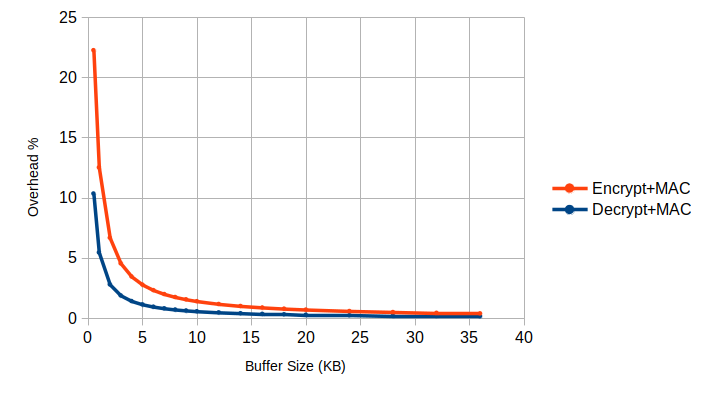
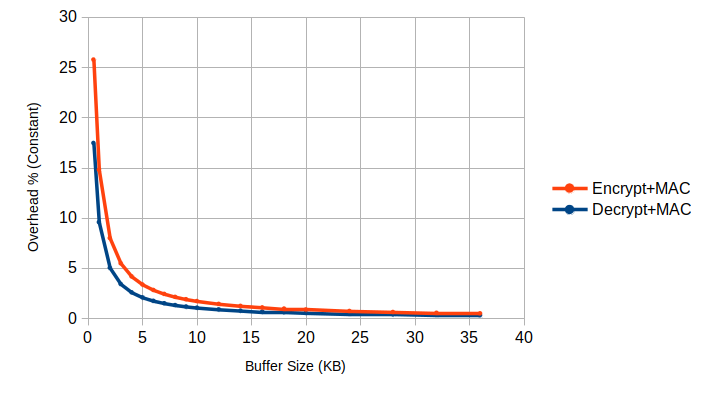
Updated table values and graphics, tweaks

Changed region(s): [[0.0312, 0.2418, 0.6856, 0.8161], [0.0623, 0.1209, 0.1558, 0.2418], [0.0623, 0.0302, 0.1246, 0.0605]]

diff --git a/Chapters/Thesis-MSc-Chapter_6.tex b/Chapters/Thesis-MSc-Chapter_6.tex
@@ -78,7 +78,7 @@ Regarding the time test results, all services followed a near perfect linear evo
 
 \begin{equation}
 	\label{eq:linear-eq}
-	T_{total} = T_{constant} + T_{data} * KB
+	T_{Total} = T_{Constant} + T_{Data} * KB
 \end{equation}
 Linear regression was used to calculate these values, presented in table \ref{tab:core-model}. The median average percentage error was calculated to assess the accuracy of the calculated models for representing each service's performance. Services which receive a fixed data size such as, the \ac{ECC} and KeyTree services, only have a constant time component.
 
@@ -150,6 +150,14 @@ The median average percentage error for the encryption/decryption and MAC and \a
 
 Figure \ref{fig:performance:services-tput} plots the results for throughput (KB/s) for the implemented services.
 Encrypt/decryption and MAC services' throughput stabilizes at around 52.5 Kb/s, while \ac{ECDSA} and key importation present a somewhat linear scalability as data size increases.
+
+\begin{figure}[h!]
+	\centering
+	\includegraphics[width=0.9\textwidth]{./Images/buffer-overhead.png}
+	\caption{Implemented services throughput evolution}
+	\label{fig:performance:buffer-overhead}
+\end{figure}
+
 
 % TODO
 % The results in table~ for the encryption and decryption operations are very similar due to both using the same board services, AES encryption and HMAC, but in a different order. It is also important to note AES encryption and decryption in CTR mode is essentially the same operation due the mode's characteristics.

diff --git a/tables_and_code/cores-model.tex b/tables_and_code/cores-model.tex
@@ -4,8 +4,8 @@
 \begin{tabular}{|c|c|c|c|c|c|c|c|}
 \hline
 Time (ms) & AES    & SHA    & HMAC   & TRNG   & KeyTree & ECC Add. & ECC Mult.   \\ \hline
-constant  & 0.489  & 0.498 & 0.783  & 0.368  & 1.655   & 7.204 & 545.381 \\ \hline
-data (KB) & 11.124 & 0.807  & 7.815  & 0.007  & -       & -  & - \\ \hline
+Constant  & 0.489  & 0.498 & 0.783  & 0.368  & 1.655   & 7.204 & 545.381 \\ \hline
+Data (KB) & 11.124 & 0.807  & 7.815  & 0.007  & -       & -  & - \\ \hline
 MAE       & 0.12\% & 0.84\% & 0.13\% & 2.29\% & -       & -  & - \\ \hline
 \end{tabular}
 \caption{Security services time values according to a linear model}
@@ -18,8 +18,8 @@ MAE       & 0.12\% & 0.84\% & 0.13\% & 2.29\% & -       & -  & - \\ \hline
 \begin{tabular}{|c|c|c|c|c|c|c|}
 \hline
 Time (ms) & RAM Op. & Write RAM & Read NVM & Write NVM & Fetch PUF & Enroll PUF \\ \hline
-constant  & 0.085     & 0.012     & 0.01     & 8.03      & 128.49    & 747.84  \\ \hline
-data (KB) & 0.34     & 0.014     & 0.02     & 298.10    & 0.006     & 0.008  \\ \hline
+Constant  & 0.085     & 0.012     & 0.01     & 8.03      & 128.49    & 747.84  \\ \hline
+Data (KB) & 0.34     & 0.014     & 0.02     & 298.10    & 0.006     & 0.008  \\ \hline
 MAE       & 1.90\%    & 2.76\%    & 3.76\%   & 0.31\%    & 0.17\%    & 0.06\%  \\ \hline
 \end{tabular}
 \caption{Smartfusion2 memory performance time values according to a linear model}

diff --git a/tables_and_code/services-model.tex b/tables_and_code/services-model.tex
@@ -3,25 +3,11 @@
 \def\arraystretch{1.5}
 \begin{tabular}{|c|c|c|c|c|c|c|}
 \hline
-	Time (ms) & Encrypt Data  & Decrypt Data  & Import Keys & ECDSA & ECDH   \\ \hline
-	constant  & 2.1    & 0.847  & 368.994  & 629.932 & 964.535 \\ \hline
-	data (KB) & 14.678 & 14.681 & 18.518 & 0.937 & - \\ \hline
-	MAE	  & 0.10\% & 0.12\%  & 2.86\% & 0.18\% & - \\ \hline
+	Time (ms) & Encrypt Data  & Decrypt Data  & Import Keys & ECDSA & Key Gen. \\ \hline
+	Constant  & 2.556  & 1.557   & 368.994 & 629.932 & 964.535 \\ \hline
+	Data (KB) & 14.73  & 14.729  & 18.518  & - & - \\ \hline
+	MAE	  & 0.18\% & 0.04\%  & 2.86\%  & - & - \\ \hline
 \end{tabular}
 \caption{Implemented services time values according to a linear model}
 \label{tab:services-model}
 \end{table}
-
-% \begin{table}[]
-% \centering
-% \def\arraystretch{1.5}
-% \begin{tabular}{|c|c|c|c|c|c|c|}
-% \hline
-% Time/Service   & Encrypt + MAC	  & Decrypt + MAC  & Import Keys & ECDSA   \\ \hline
-%         constant (ms) & 29.413 & 29.413 & 0.002 & 0.138 \\ \hline
-%         data (ms) & 6.704 & 6.704 & 1.942 & 1.542 \\ \hline
-%         MAE \%	   & 1.032 & 1.006 & 0.127 & 1.760 \\ \hline
-% \end{tabular}
-% \caption{Implemented services throughput model values}
-% \label{tab:services-model}
-% \end{table}
